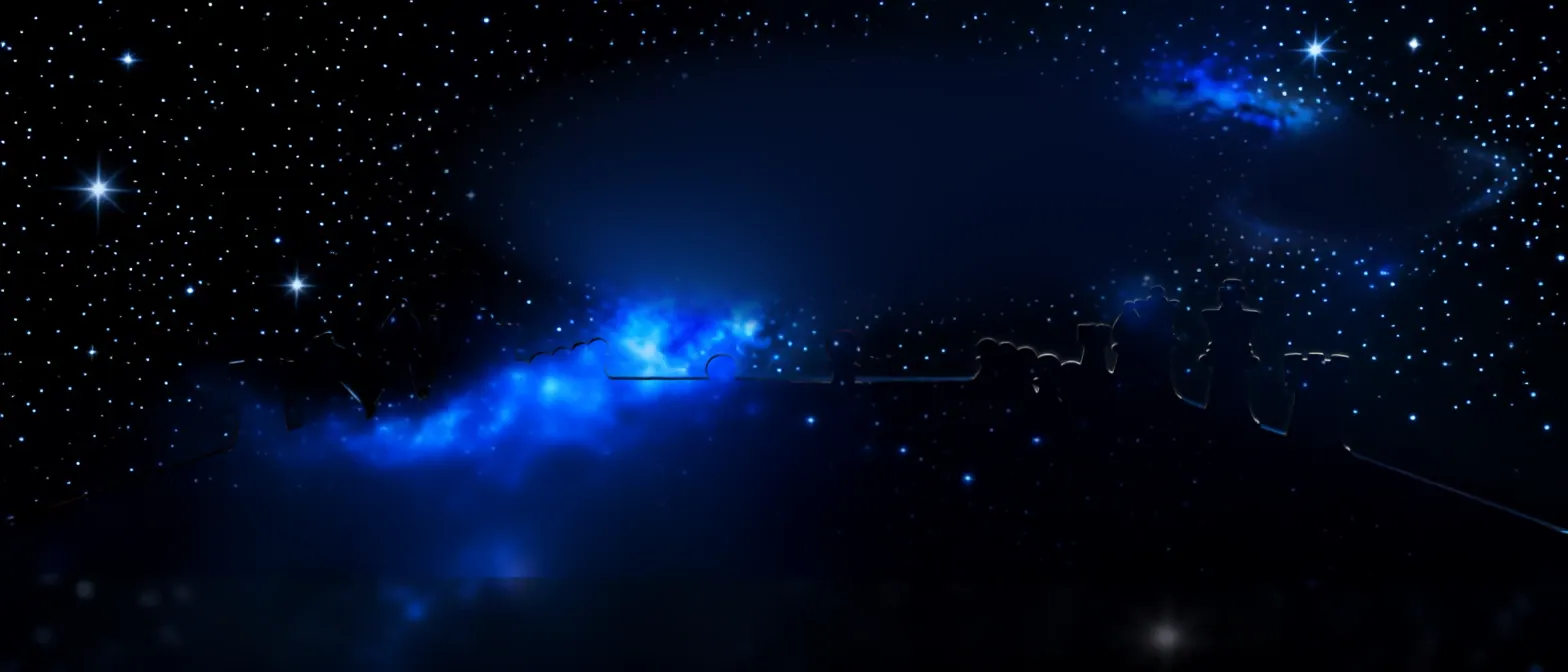
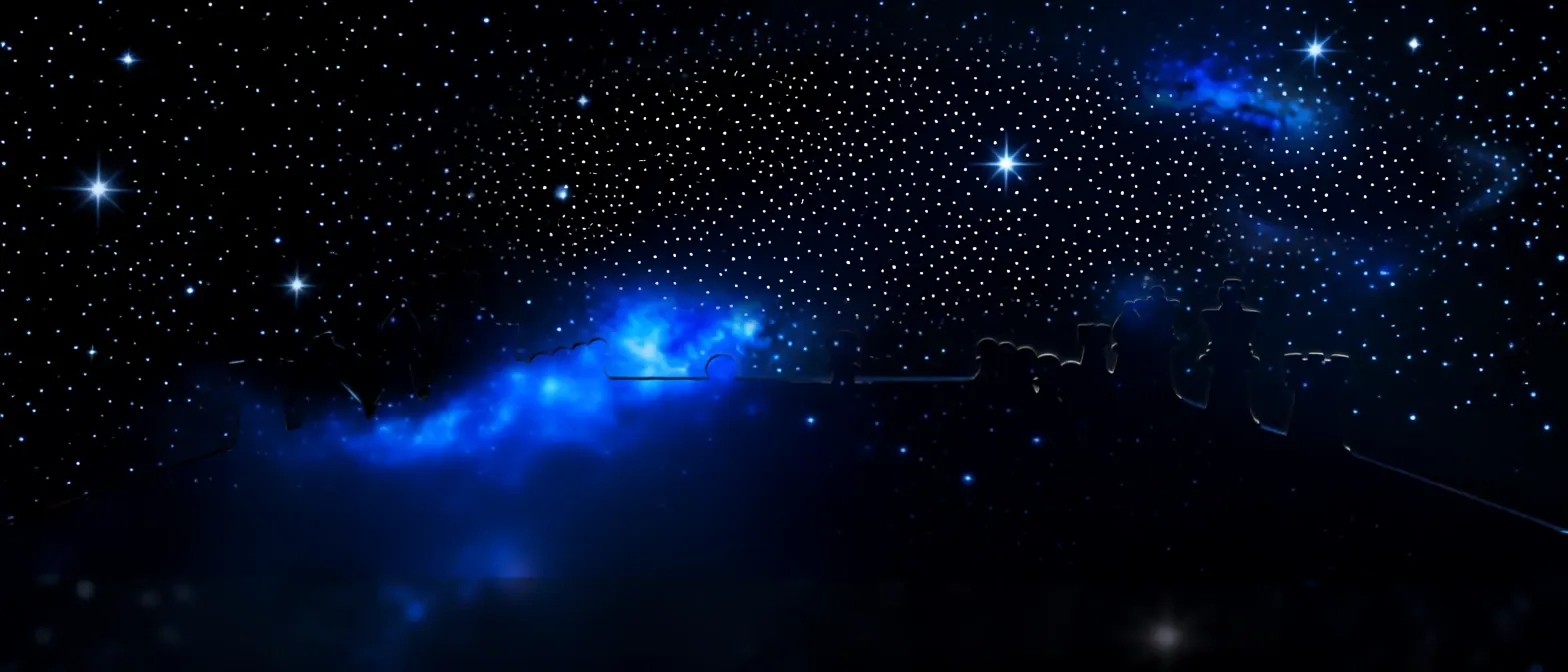
Content: Hawkes Gen image.repaint fills the gaps the nebula and warm-cloud cuts reveal (Space Chess stars, Watercolor Nebula wash)
Space Chess: the star field behind the cut nebula and galaxy is painted (j_a68822e94372, take 3) instead of a star-free blur.
Watercolor Nebula: the cool teal and navy pixel wash fills where the warm clouds were cut (j_c90b42383a1a), no more flat grey.
The plan's notes name the Gen jobs; the tool no longer drops a layer it is about to replace; world bible stage depth notes updated.
Dust Devil Mesa, Solar Array and Yo House keep their diffusion fills (a sliver behind an opaque band; three more jobs if wanted).

diff --git a/docs/world-bible.md b/docs/world-bible.md
@@ -464,12 +464,16 @@ is only 1024 px wide, so each layer's alpha is used as a *cut mask over the full
 inpainted pixels are kept only where a cut reveals what was behind it (the sky behind the towers, the garden behind the
 window, the street behind a tentacle). A band cut from one opaque Gen layer (Dust Devil Mesa's horizon, Solar Array's plain,
 Yo House's furniture, Space Chess's nebula and galaxy) leaves a hole in the layer behind it that the tool fills by diffusion
-(no GPU), so a pan never shows an empty gap. The stack at rest differs from the backdrop by an RMS of 2 to 6.5 (of 255). On
+(no GPU), so a pan never shows an empty gap; where the hole shows something a smooth blur cannot be (stars, a painting's wash)
+the fill is painted by Hawkes Gen `image.repaint` instead (`--holes` writes the fill and the hole mask, `--repaint` reads
+the painted fill back; Space Chess's star field and Watercolor Nebula's cool wash). The stack at rest differs from the backdrop by an RMS of 2 to 6.5 (of 255). On
 High each stage draws its own stack; Low draws the whole backdrop picture (`low`) and the layers that were already there.
 Jobs: City Top j_de95dbaf4d12, Dust Devil Mesa j_c0b792ce201e, Cursed Town j_baf72867a5f9, Rainbow Full Pipe j_7ec99117dab6,
 Solar Array j_baf31958c811, Space Chess j_81bec11c18e4, Yo House j_0613ca74762a, Humans in the Loop (a second split, 6 layers,
-j_eea1055faada) (about $0.57 of GPU for the nine first splits and $0.30 for the two retries; no `image.repaint` was needed: Gen's
-layers come inpainted and the bottom layer of every stack is opaque).
+j_eea1055faada) (about $0.57 of GPU for the nine first splits, $0.30 for the two retries and $0.17 for the repaints below; Gen's
+layers come inpainted and the bottom layer of every stack is opaque). Only two holes were repainted: Dust Devil Mesa's, Solar
+Array's and Yo House's holes lie behind a band that is opaque below its feathered top edge, so a pan reveals a sliver of smooth
+sky or wall that the diffusion fill already matches; they stay diffusion-filled (three more `image.repaint` jobs if wanted).
 
 - **City Top:** sky and smoke, the amber sprawl, the towers with the fireworks, the lit rooftops with the avenue; the old
   cut-out skyline band is gone.
@@ -480,7 +484,10 @@ layers come inpainted and the bottom layer of every stack is opaque).
 - **Rainbow Full Pipe:** sky, big clouds, the park, then the plaza around the half-pipe; the scrolling cloud layer and the
   trees keep theirs.
 - **Solar Array:** the canyon and the sky, the plain with the panel shadows, and four rings of panels sliding past each other.
-- **Space Chess:** the star field, the cobalt nebula, the spiral galaxy and the far end of the board with its pieces.
+- **Space Chess:** the star field, the cobalt nebula, the spiral galaxy and the far end of the board with its pieces. The
+  nebula and galaxy are cut out of Gen's star-field layer; the stars behind them are painted by `image.repaint`
+  (j_a68822e94372, three takes: the first came out as a regular dot lattice, the second invented a nebula streak and
+  drew the guide outline, the third is used), so a pan keeps a continuous star field instead of a star-free patch.
 - **Yo House:** the garden and hills seen through the windows and the skylight slide behind the room; the floor, rug and sofa
   slide in front of the back wall.
 - **Humans in the Loop:** Gen's first split (5 layers) left the arena in one layer; a retry with a prompt naming the road cases,
@@ -497,7 +504,8 @@ layers come inpainted and the bottom layer of every stack is opaque).
   smooth lavender gradient that does not match the pixel-wash painting, and one layer is empty. So it is cut by colour on the CPU
   (`warm` mask in `tools/depth-layers.mjs`: red over blue, blurred into coherent masses, the heart light kept out): the warm
   amber and pink clouds are `warm-clouds` 13, the cool teal and navy washes with the heart are `cool-wash` 20 (the holes the
-  cut leaves are diffusion-filled, so a pan shows soft pale mist between them), which closes the gap between the backdrop and the
+  cut leaves are painted by `image.repaint`, j_c90b42383a1a: the same teal and navy pixel wash where the clouds were, in place
+  of the flat grey the diffusion fill gave), which closes the gap between the backdrop and the
   painted underwash 8, cloud banks 6, swirl 4 and the front wisp (all kept).
 
 **Short:** the foregrounds only shake on KOs (and sway where the art already did), and the cut layers add parallax, not new
